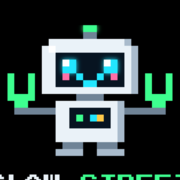
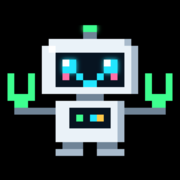
Changes

diff --git a/src/routes/index.tsx b/src/routes/index.tsx
@@ -2,6 +2,7 @@ import { createFileRoute, Link } from "@tanstack/react-router";
 import { ArrowRight, ShieldCheck, Boxes, FileCheck2 } from "lucide-react";
 import { Chip, MaturityTag } from "@/components/kit";
 import { FACILITY, VIU_SPOT } from "@/lib/credence";
+import logoGif from "@/assets/claw-street-logo.gif.asset.json";
 
 export const Route = createFileRoute("/")({
   head: () => ({
@@ -39,9 +40,7 @@ function Home() {
       <header className="sticky top-0 z-30 border-b border-border bg-background/85 backdrop-blur">
         <div className="mx-auto flex max-w-[1200px] items-center justify-between px-5 py-3.5">
           <div className="flex items-center gap-2.5">
-            <span className="grid size-10 place-items-center rounded-md border border-primary/40 bg-primary/10">
-              <span className="font-pixel text-xs text-primary">CS</span>
-            </span>
+            <img src="/claw-street-icon-512.png" alt="" className="size-10 rounded-md" />
             <span className="leading-tight">
               <span className="font-pixel block text-[11px] text-foreground">CLAW STREET</span>
               <span className="mt-1 block text-[10px] text-muted-foreground">Powered by Credence</span>
@@ -66,7 +65,9 @@ function Home() {
             <Chip tone="neutral">Credence Credit is the live MVP</Chip>
             <Chip tone="roadmap">Other modules simulated / roadmap</Chip>
           </div>
-          <h1 className="font-pixel mt-7 text-center text-3xl leading-tight text-primary md:text-6xl">CLAW STREET</h1>
+          <h1 className="mt-7 flex justify-center">
+            <img src={logoGif.url} alt="Claw Street — Powered by Credence" className="w-full max-w-[420px]" />
+          </h1>
           <p className="mt-4 max-w-2xl text-xl text-foreground/90 md:text-2xl">
             Financial markets for machine intelligence.
           </p>

diff --git a/src/routes/__root.tsx b/src/routes/__root.tsx
@@ -96,7 +96,8 @@ export const Route = createRootRouteWithContext<{ queryClient: QueryClient }>()(
         rel: "stylesheet",
         href: "https://fonts.googleapis.com/css2?family=Inter:wght@400;500;600;700&family=Press+Start+2P&display=swap",
       },
-      { rel: "icon", href: "/favicon.ico", type: "image/x-icon" },
+      { rel: "icon", type: "image/png", href: "/favicon.png" },
+      { rel: "apple-touch-icon", href: "/apple-touch-icon.png" },
     ],
   }),
   shellComponent: RootShell,
